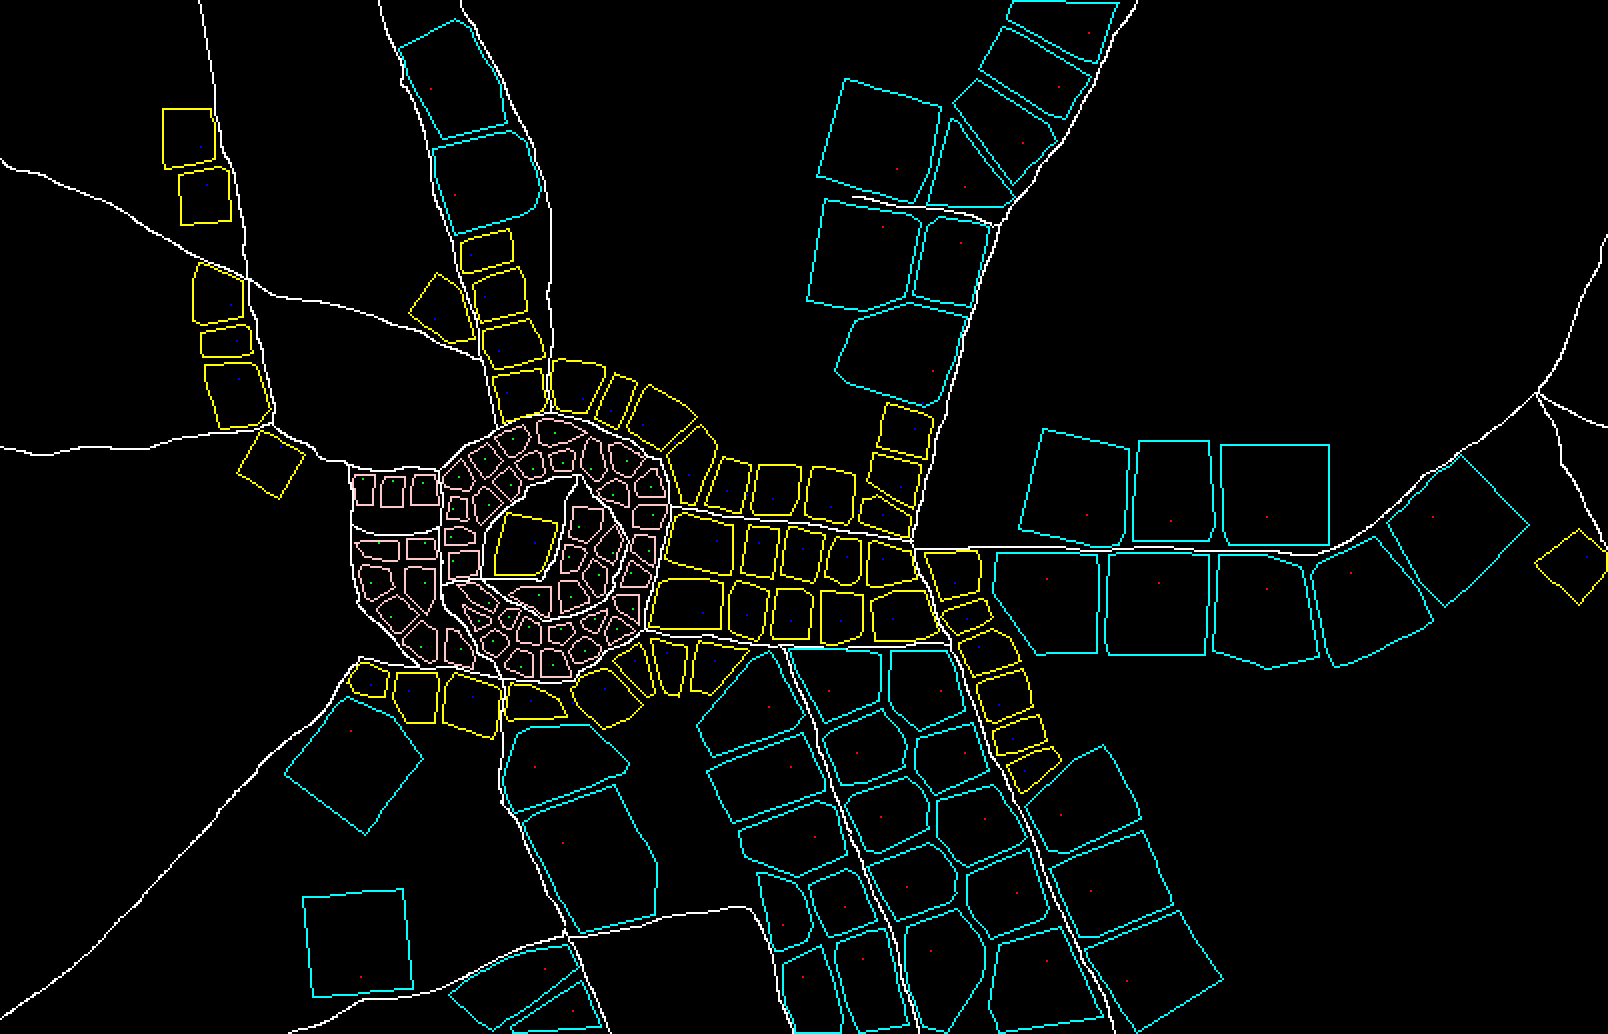
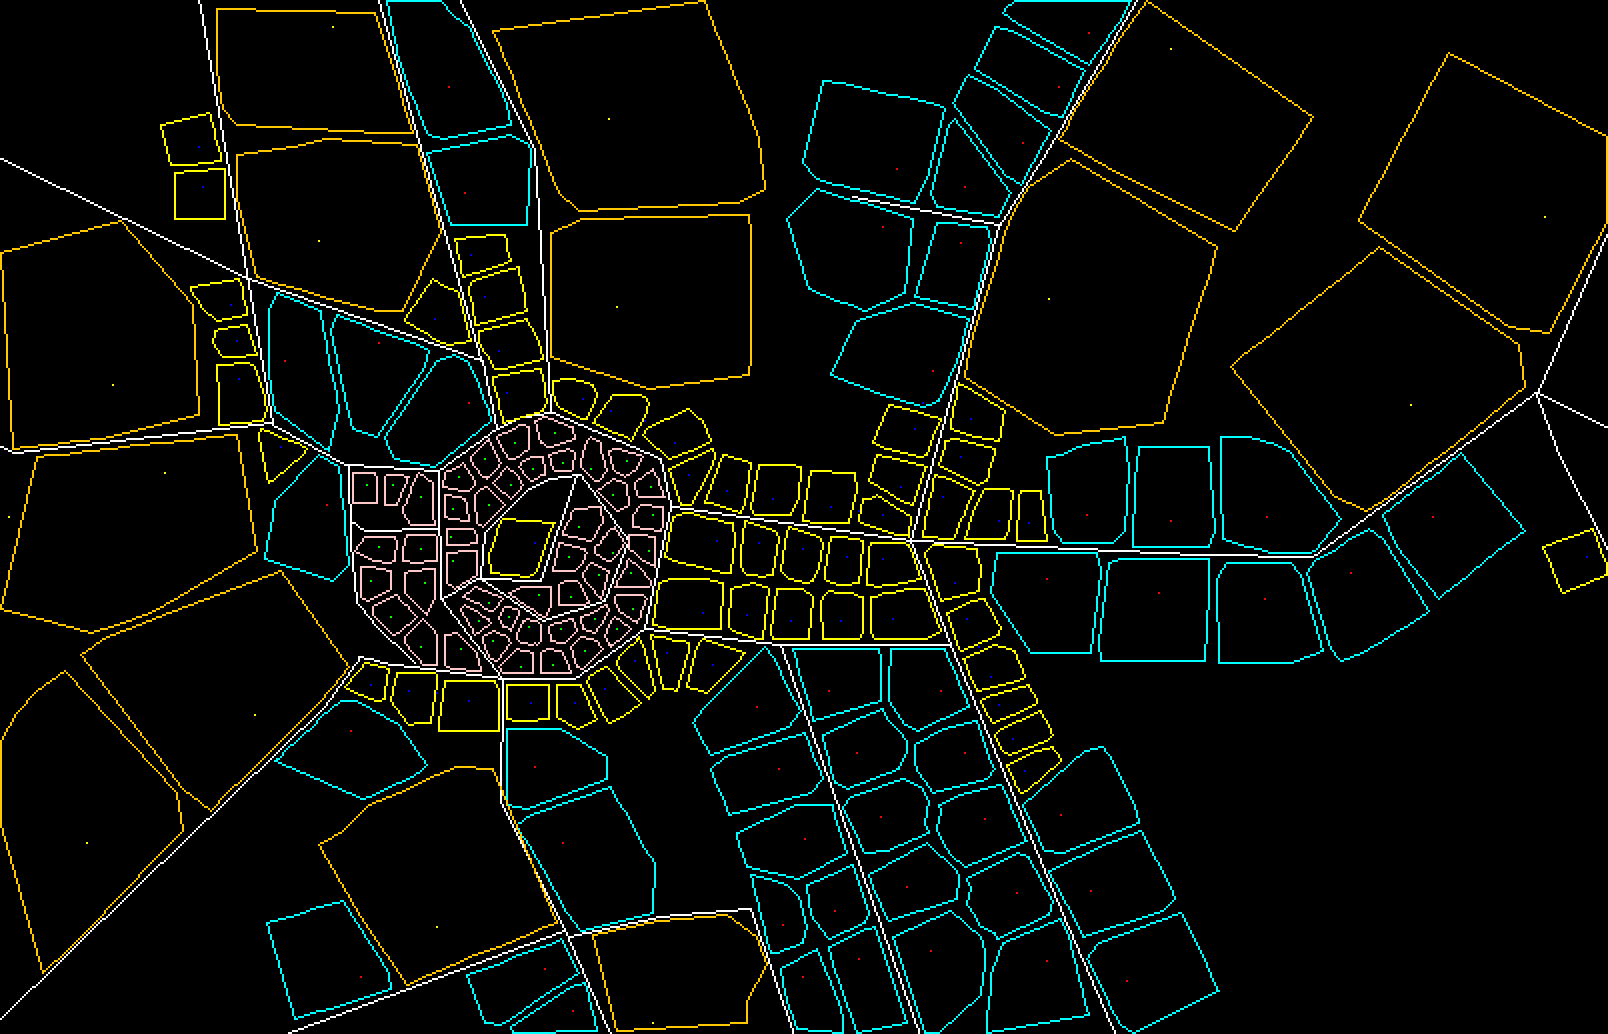
0823 geo-divide is done

diff --git a/parcel_geomotry.py b/parcel_geomotry.py
@@ -18,6 +18,7 @@ def load_data_from_png(path):
     buildings1 = np.where((img == [0, 255, 0]).all(axis=2))
     buildings2 = np.where((img == [255, 0, 0]).all(axis=2))
     buildings3 = np.where((img == [0, 0, 255]).all(axis=2))
+    buildings4 = np.where((img == [0, 255, 255]).all(axis=2))
     Landmarks[roads[1], roads[0]] = 1
     for i in range(len(buildings1[0])):
         Buildings.append(FBuilding(i, 15, 15, [buildings1[1][i], buildings1[0][i]]))
@@ -27,6 +28,9 @@ def load_data_from_png(path):
     size = len(Buildings)
     for i in range(len(buildings3[0])):
         Buildings.append(FBuilding(i + size, 50, 50, [buildings3[1][i], buildings3[0][i]]))
+    size = len(Buildings)
+    for i in range(len(buildings4[0])):
+        Buildings.append(FBuilding(i + size, 100, 100, [buildings4[1][i], buildings4[0][i]]))
 
 
 def MarkNeighborsOfAllBuildings():
@@ -470,29 +474,41 @@ def generate_parcel(Building):
     Building.End()
 
 
+def load_raw_png(path, out_path):
+    img = cv2.imread(path)
+    img[img != 255] = 0
+    cv2.imshow('img', img)
+    cv2.waitKey(0)
+    cv2.imwrite(out_path, img)
+
+
 if __name__ == '__main__':
-    load_data_from_png('parcel_real_h.png')
+    # load_raw_png('parcel_real_raw.png', 'parcel_real_h2.png')
+
+    load_data_from_png('parcel_real2.png')
     MarkNeighborsOfAllBuildings()
 
-    indices = [64]
-    # indices = range(0, 146)
-    for Building in Buildings:
-        generate_parcel(Building)
-    for Building in Buildings:
-        if Building.Redo:
-            Building.Borders.clear()
-            generate_parcel(Building)
-    img = cv2.imread('parcel_real_h.png')
-    colors = [(200, 200, 255), (0, 255, 255), (255, 255, 0)]
-    for Building in Buildings:
-        if Building.Width == 15:
+    # indices = [160]
+    indices = range(0, len(Buildings))
+    for index in indices:
+        generate_parcel(Buildings[index])
+    for index in indices:
+        if Buildings[index].Redo:
+            Buildings[index].Borders.clear()
+            generate_parcel(Buildings[index])
+    img = cv2.imread('parcel_real2.png')
+    colors = [(200, 200, 255), (0, 255, 255), (255, 255, 0), (0, 200, 255)]
+    for index in indices:
+        if Buildings[index].Width == 15:
             color = 0
-        elif Building.Width == 25:
+        elif Buildings[index].Width == 25:
             color = 1
-        else:
+        elif Buildings[index].Width == 50:
             color = 2
-        Building.DrawLine(img, 1, colors[color])
-    img = cv2.resize(img, (1608, 1034), interpolation=cv2.INTER_NEAREST)
+        else:
+            color = 3
+        Buildings[index].DrawLine(img, 1, colors[color])
+    img = cv2.resize(img, (img.shape[1] * 2, img.shape[0] * 2), interpolation=cv2.INTER_NEAREST)
     cv2.imshow('img', img)
     cv2.waitKey(0)
     cv2.imwrite('geo_divide.png', img)

diff --git a/parcel_v2.py b/parcel_v2.py
@@ -22,6 +22,8 @@ def load_data_from_png(path):
                 Landmarks[x, y] = 32
             elif img[y, x, 0] == 0 and img[y, x, 1] == 0 and img[y, x, 2] == 255:
                 Landmarks[x, y] = 33
+            elif img[y, x, 0] == 0 and img[y, x, 1] == 255 and img[y, x, 2] == 255:
+                Landmarks[x, y] = 34
             elif img[y, x, 0] == 255 and img[y, x, 1] == 255 and img[y, x, 2] == 255:
                 Landmarks[x, y] = 1
 
@@ -277,7 +279,7 @@ class Building:
             OccupiedMap[Node[0], Node[1]] = self.Index
             self.__RegionConqueredDist[EndNodeIndex] += 1
             img[Node[1], Node[0]] = color[self.__RegionConqueredDist[EndNodeIndex]]
-        elif Landmarks[Node[0], Node[1]] in [31, 32, 33] or \
+        elif Landmarks[Node[0], Node[1]] in [31, 32, 33, 34] or \
                 (Landmarks[Node[0], Node[1]] == 4 and OccupiedMap[Node[0], Node[1]] == self.Index):
             self.__RegionConqueredDist[EndNodeIndex] += 1
         else:
@@ -377,7 +379,7 @@ def RegionConquest(OccupiedMap: dict):
 
 
 if __name__ == '__main__':
-    file = 'parcel_real_h.png'
+    file = 'parcel_real2.png'
     load_data_from_png(file)
     img = cv2.imread(file)
     hashmap = dict()
@@ -385,10 +387,12 @@ if __name__ == '__main__':
     buildings1 = np.where(Landmarks == 31)
     buildings2 = np.where(Landmarks == 32)
     buildings3 = np.where(Landmarks == 33)
+    buildings4 = np.where(Landmarks == 34)
     size1 = len(buildings1[0])
     size2 = len(buildings2[0])
     size3 = len(buildings3[0])
-    color = [np.uint8([random() * 255, random() * 255, random() * 255]) for i in range(size1 + size2 + size3)]
+    size4 = len(buildings4[0])
+    color = [np.uint8([random() * 255, random() * 255, random() * 255]) for i in range(size1 + size2 + size3 + size4)]
 
     radius = 10
     target = range(size1)
@@ -400,10 +404,15 @@ if __name__ == '__main__':
     for i, x in enumerate(target):
         Buildings.append(Building(i + size1, radius, [buildings2[0][x], buildings2[1][x]]))
 
-    radius = 20
+    radius = 25
     target = range(size3)
     for i, x in enumerate(target):
         Buildings.append(Building(i + size1 + size2, radius, [buildings3[0][x], buildings3[1][x]]))
+
+    radius = 40
+    target = range(size4)
+    for i, x in enumerate(target):
+        Buildings.append(Building(i + size1 + size2 + size3, radius, [buildings4[0][x], buildings4[1][x]]))
 
     RoadConquest(hashmap)
     RegionConquest(hashmap)
@@ -418,4 +427,4 @@ if __name__ == '__main__':
     img = cv2.resize(img, (img.shape[1] * 2, img.shape[0] * 2), interpolation=cv2.INTER_NEAREST)
     cv2.imshow('img', img)
     cv2.waitKey(0)
-
+    cv2.imwrite('pixel_grow.png', img)

diff --git a/parcel.py b/parcel.py
@@ -338,7 +338,7 @@ def GenerateOnParcel():
 
 
 if __name__ == '__main__':
-    file = 'parcel_real_p.png'
+    file = 'parcel_real_h.png'
     load_data_from_png(file)
     img = cv2.imread(file)
     hashmap = dict()
@@ -388,4 +388,3 @@ if __name__ == '__main__':
     # img = cv2.resize(img, (img.shape[1] * 2, img.shape[0] * 2), interpolation=cv2.INTER_NEAREST)
     cv2.imshow('img', img)
     cv2.waitKey(0)
-    cv2.imwrite('parcel_real_p_result.png', img)
